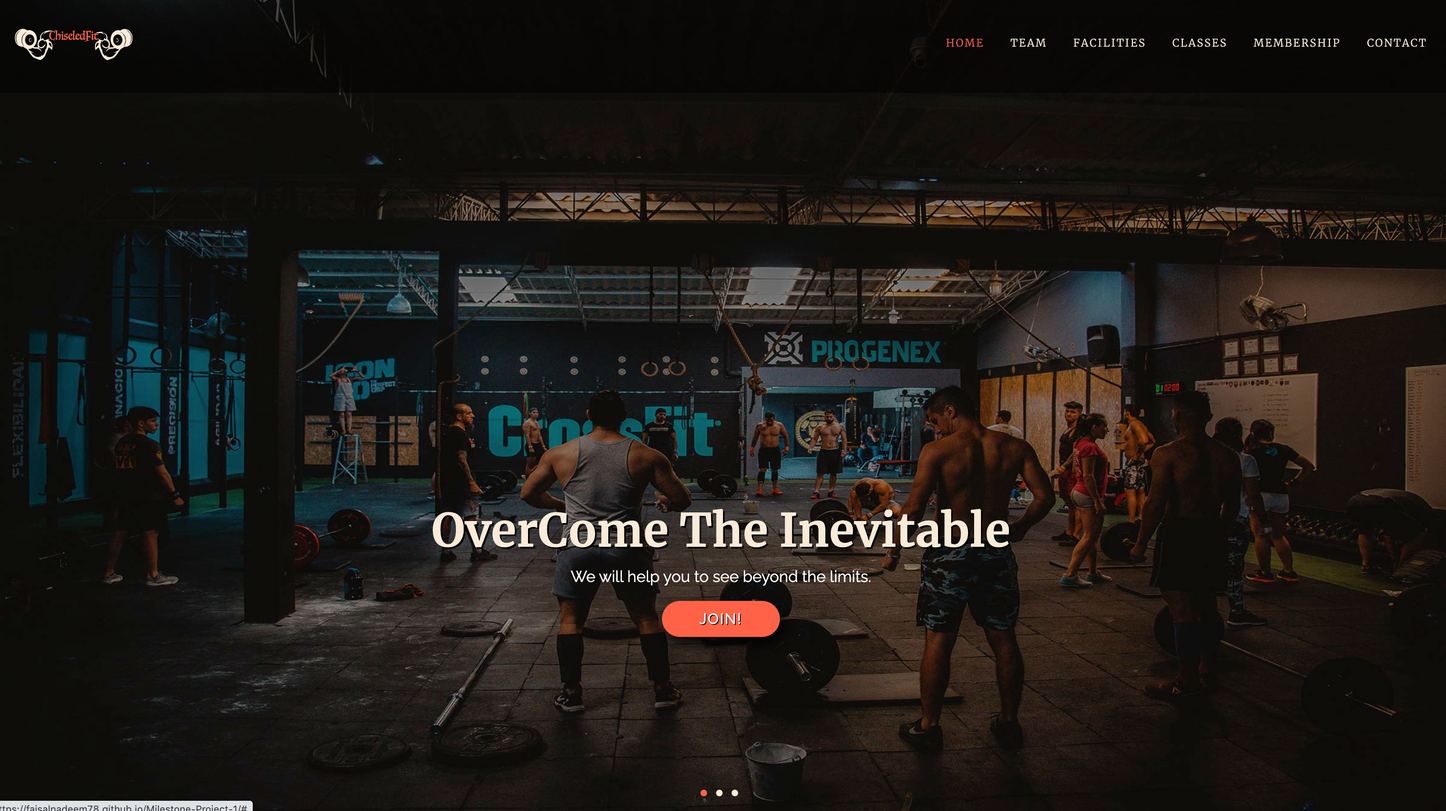
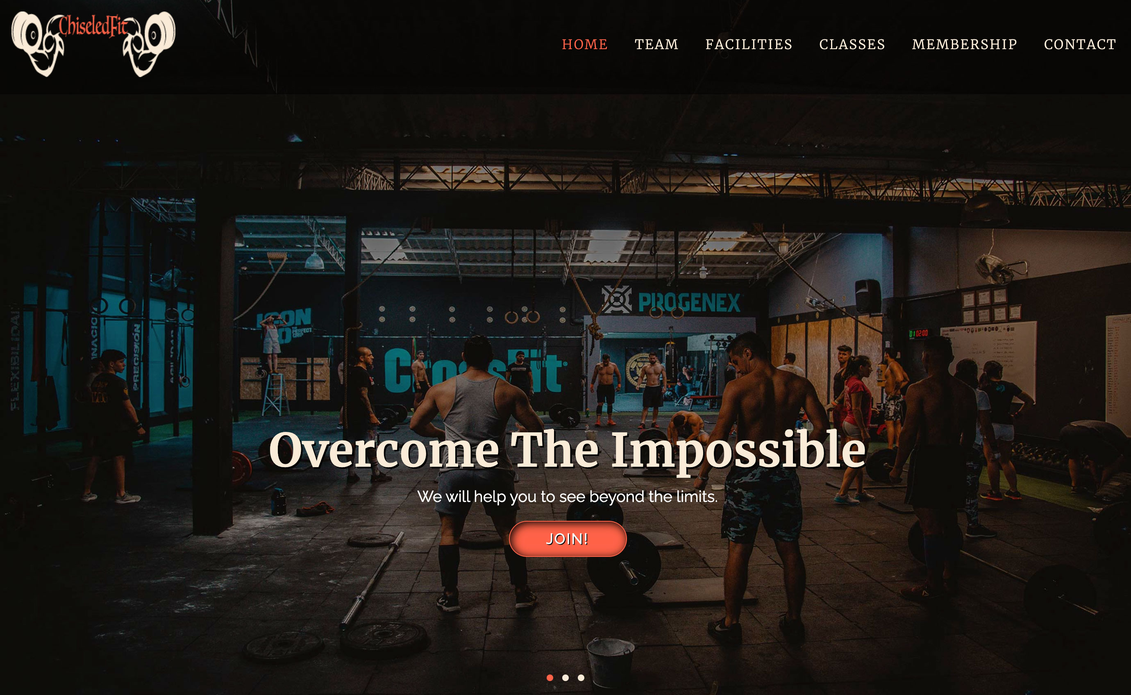
New mockup screenshot and navigation menu screenshot added in README.md

diff --git a/README.md b/README.md
@@ -1,5 +1,5 @@
 # Code Institute : MileStone Project 1
-![ChiseledFit](https://faisalnadeem78.github.io/Milestone-Project-1/documentation/screenshots/mockupscreenshot.jpg)
+![ChiseledFit](https://faisalnadeem78.github.io/Milestone-Project-1/documentation/screenshots/mockupscreenshot.png)
 ### Project Name : [ChiseledFit](https://faisalnadeem78.github.io/Milestone-Project-1/)
 ### Developed By : Faisal Nadeem
 
